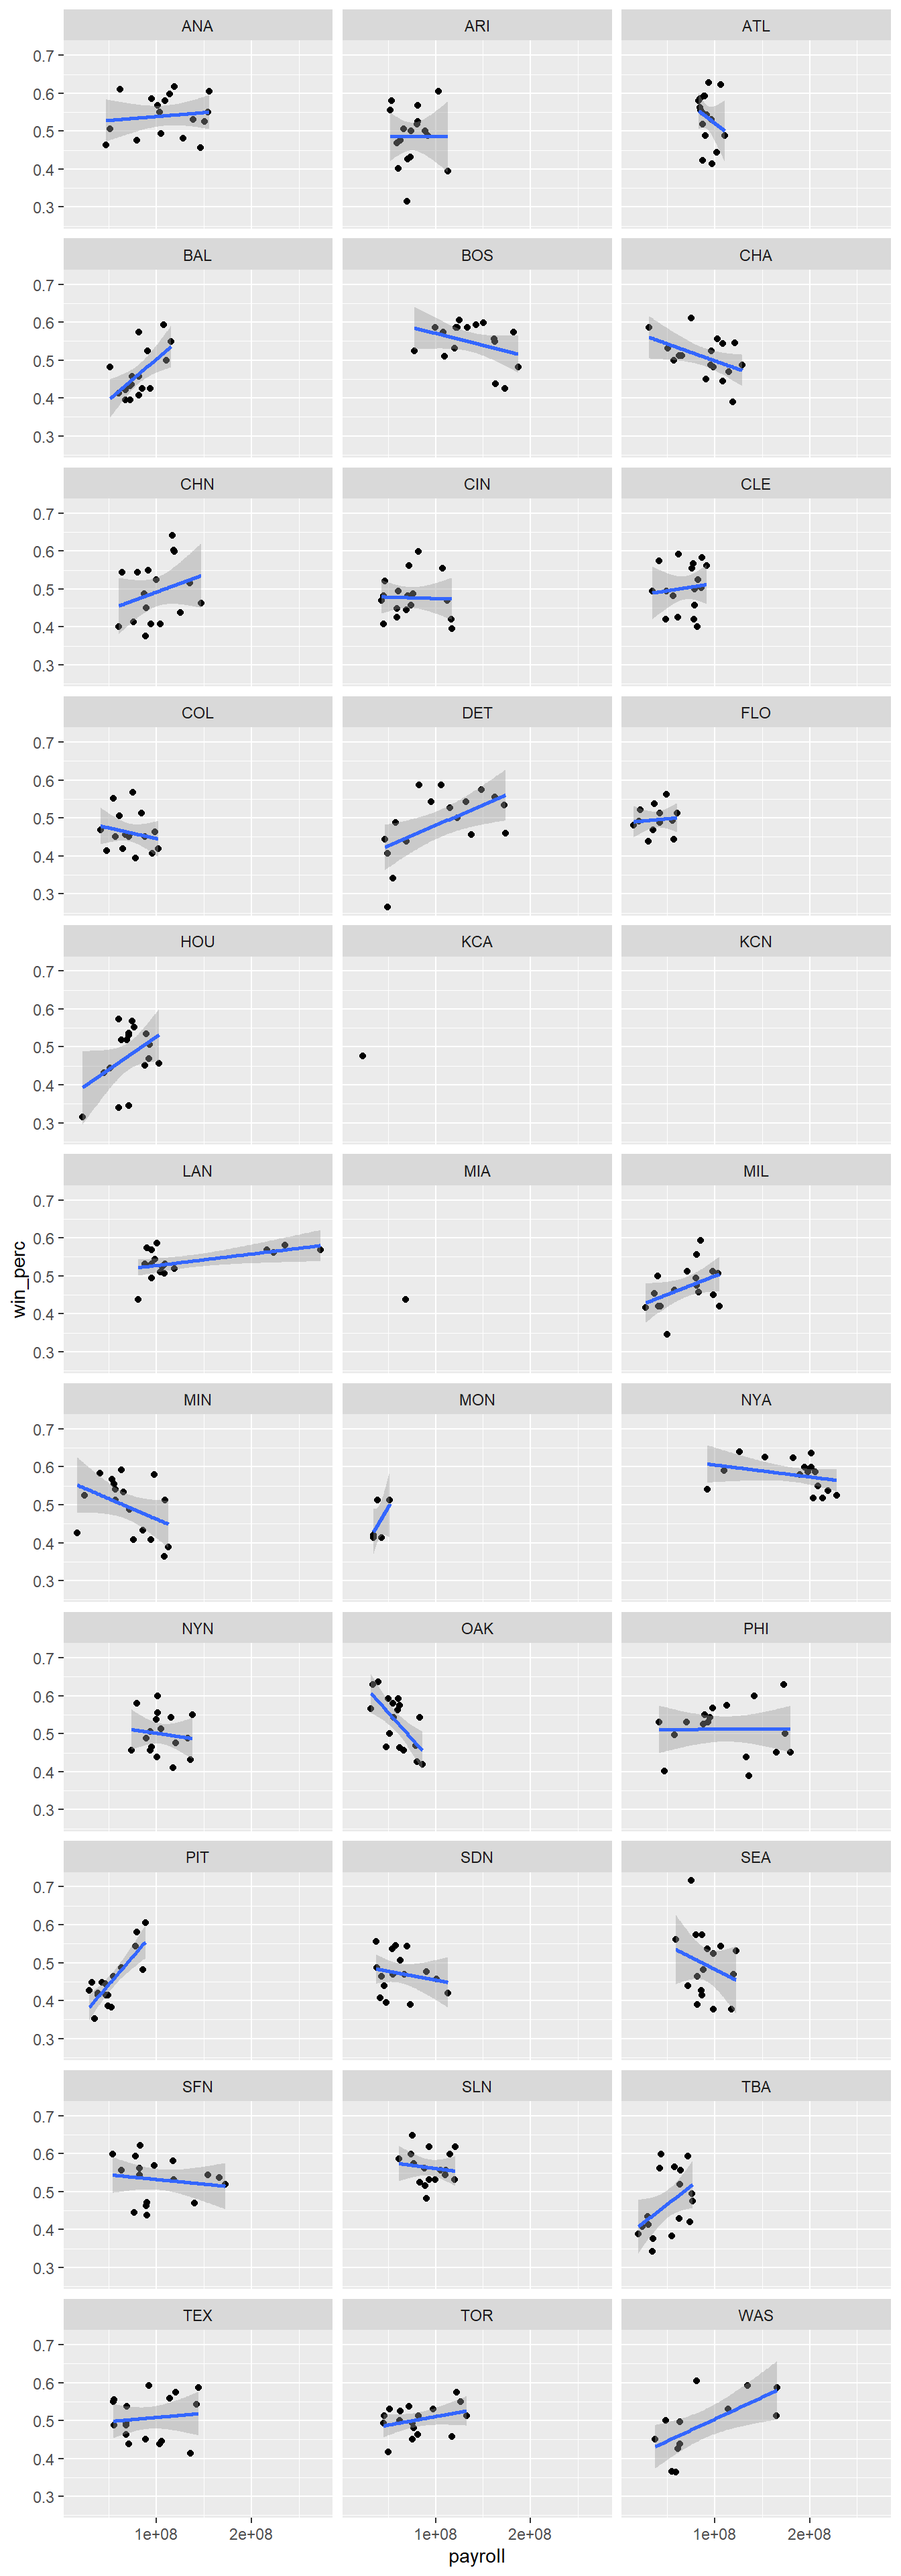
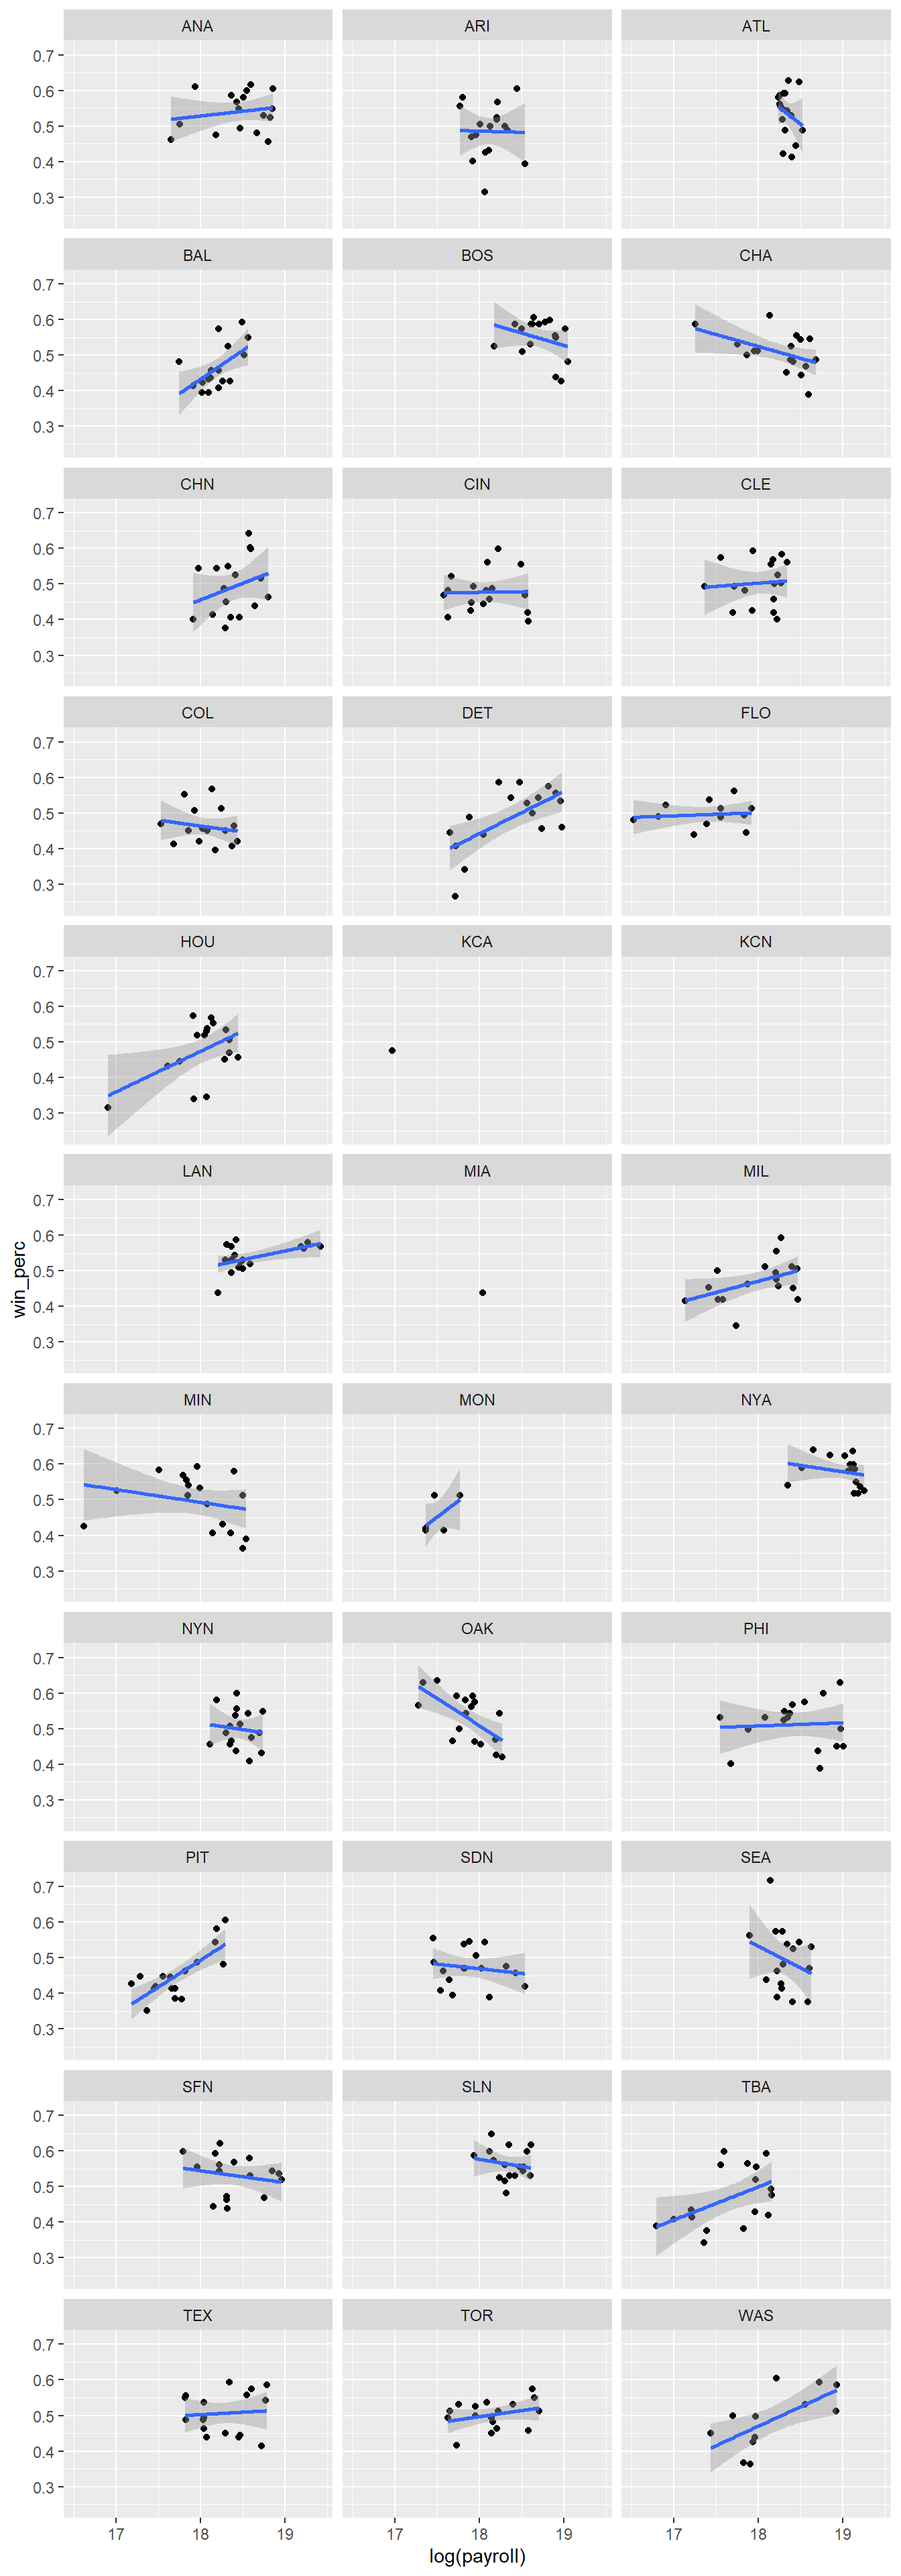
small edits

diff --git a/content/post/2022-11-03-blog-post-4-week-of-10-31-2022/index.html b/content/post/2022-11-03-blog-post-4-week-of-10-31-2022/index.html
@@ -4100,8 +4100,8 @@ With these data sets, we can now graph both the proportion of games each pitcher
                  coord_flip()+
                  facet_wrap(vars(year),scales=&quot;free_y&quot;,ncol=3)+
                  labs(title=&quot;Proportion of Games Won for each Starting Pitcher of the Boston Red Sox&quot;)+
-                 xlab(&quot;Proportion&quot;)+
-                 ylab(&quot;Pitcher&quot;)</code></pre>
+                 ylab(&quot;Proportion&quot;)+
+                 xlab(&quot;Pitcher&quot;)</code></pre>
 <p><img src="{{< blogdown/postref >}}index_files/figure-html/graph1cont-1.png" width="960" /></p>
 <pre class="r"><code>pitcher_win %&gt;% group_by(year) %&gt;%
                 ggplot(aes(h_starting_pitcher_name,games_won,fill=h_starting_pitcher_name))+
@@ -4109,8 +4109,8 @@ With these data sets, we can now graph both the proportion of games each pitcher
                 coord_flip()+
                 facet_wrap(vars(year),scales=&quot;free_y&quot;,ncol=3)+
                 labs(title=&quot;Games Won for each Starting Pitcher of the Boston Red Sox&quot;)+
-                xlab(&quot;Number of Games Won&quot;)+
-                ylab(&quot;Pitcher by ID&quot;)</code></pre>
+                ylab(&quot;Number of Games Won&quot;)+
+                xlab(&quot;Pitcher by ID&quot;)</code></pre>
 <p><img src="{{< blogdown/postref >}}index_files/figure-html/graph1cont-2.png" width="960" /></p>
 <p><br>
 There are clearly starting pitchers that win more games than others. In this case, the number of games won offers a little better insight than the proportion of games won, since multiple pitchers only started one game and won that one game, so are given a 100% win percentage. Starting pitchers is a factor that can definitely be explored further.</p>
@@ -7864,12 +7864,12 @@ teams_pythag &lt;- runs_total %&gt;% add_column(allowed_total = allowed_total$al
                                mutate(pythag_win = ((runs_total)^2)/(((runs_total)^2) + ((allowed_total)^2))) %&gt;%
                                add_column(win_perc = win_perc$win_perc)
 
-
 #barplot for Boston Red Sox
 teams_pythag %&gt;% filter(h_name == &quot;BOS&quot;) %&gt;% 
                  select(year, win_perc, pythag_win) %&gt;% 
                  pivot_longer(-(h_name:year), names_to = &quot;pythag_actual&quot;, values_to = &quot;percentage&quot;) %&gt;%
                  ggplot(aes(x=year, y=percentage, fill = pythag_actual)) + 
+                 coord_cartesian(ylim=c(0.4,0.7))+
                  geom_bar(stat = &quot;identity&quot;, position = &quot;dodge&quot;) + 
                  scale_x_discrete(guide = guide_axis(n.dodge=2)) + 
                  labs(title = &quot;Pythagorean Winning Prediction versus Actual Winning Percentage&quot;, 

diff --git a/content/post/2022-11-28-blog-post-7-week-of-11-28-2022/index.html b/content/post/2022-11-28-blog-post-7-week-of-11-28-2022/index.html
@@ -34,18 +34,18 @@ load(here::here(&quot;dataset&quot;,&quot;win_perc.Rdata&quot;))</code></pre>
 <p>NOTE FOR SELF: WRITE IN EXPLANATION FOR GRAPHS; CURRENTLY BRAIN DEAD AND MY THOUGHTS ARE BAD</p>
 <pre class="r"><code>combined&lt;-full_join(mlb_payroll,win_perc,by=c(&#39;year&#39;,&#39;h_name&#39;))
 
-ggplot(combined,aes(payroll,win_perc))+geom_point()+
-                                       geom_smooth(method=&#39;glm&#39;)+
-                                       facet_wrap(vars(h_name),ncol=3)</code></pre>
+ggplot(combined,aes(log(payroll),win_perc))+geom_point()+
+                                            geom_smooth(method=&#39;glm&#39;)+
+                                            facet_wrap(vars(h_name),ncol=3)</code></pre>
 <pre><code>## `geom_smooth()` using formula &#39;y ~ x&#39;</code></pre>
 <pre><code>## Warning: Removed 40 rows containing non-finite values (stat_smooth).</code></pre>
 <pre><code>## Warning: Removed 40 rows containing missing values (geom_point).</code></pre>
 <p><img src="{{< blogdown/postref >}}index_files/figure-html/trends_1-1.png" width="672" /></p>
 <p>PUT EXPLANATION FOR WHAT WE SEE ABOVE</p>
 <p>EXPLAIN WHAT WE ARE DOING IN NEXT GRAPH</p>
-<pre class="r"><code>ggplot(combined,aes(payroll,win_perc))+geom_point(aes(color=h_name))+
-                                       facet_wrap(vars(year),ncol=3)+
-                                       theme(legend.position = &#39;bottom&#39;)</code></pre>
+<pre class="r"><code>ggplot(combined,aes(log(payroll),win_perc))+geom_point(aes(color=h_name))+
+                                            facet_wrap(vars(year),ncol=3)+
+                                            theme(legend.position = &#39;bottom&#39;)</code></pre>
 <pre><code>## Warning: Removed 40 rows containing missing values (geom_point).</code></pre>
 <p><img src="{{< blogdown/postref >}}index_files/figure-html/trends_2-1.png" width="672" /></p>
 <p>EXPLAIN TRENDS FROM GRAPH ABOVE</p>
